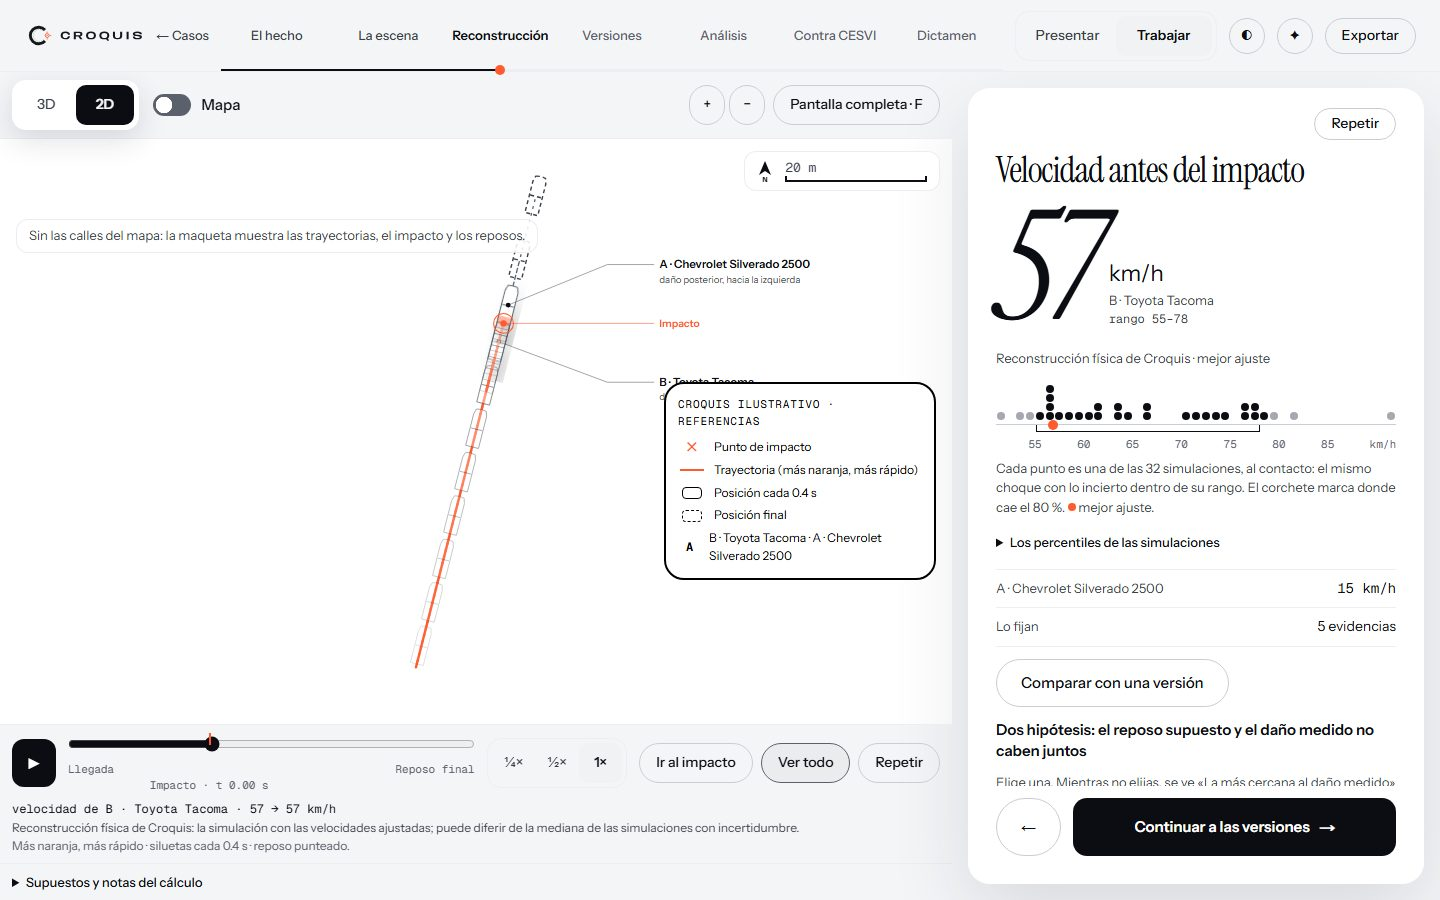
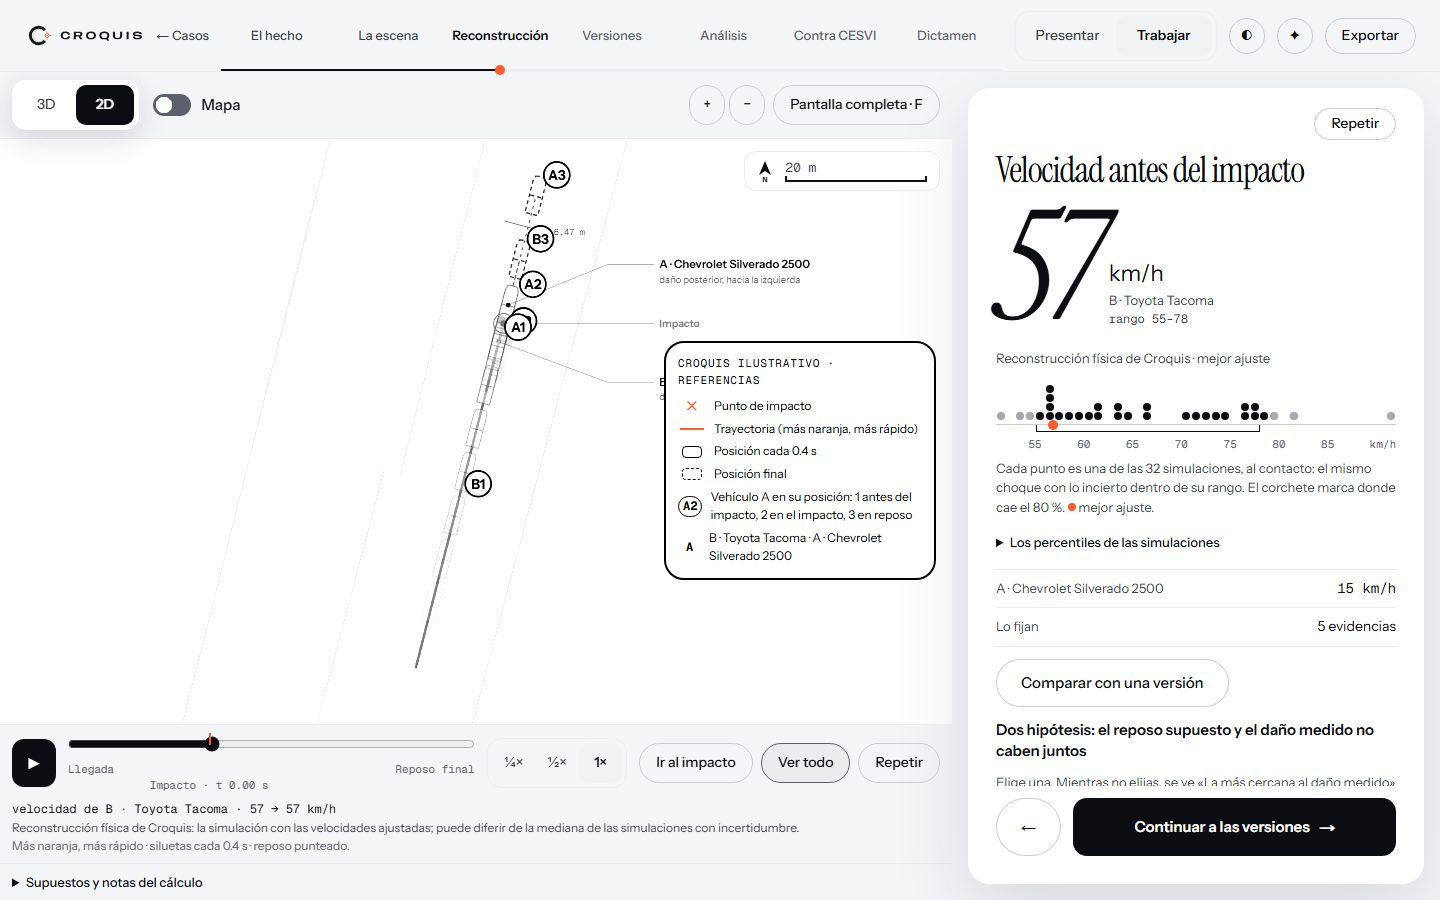
proto(web): the three 2D proposals (map under the sketch, perito paper with lettered positions, satellite photo), the walkthrough reads tile streets from the case map, captures and the proposals doc

diff --git a/apps/web/src/components/cesvi/escena/maqueta.tsx b/apps/web/src/components/cesvi/escena/maqueta.tsx
@@ -270,7 +270,7 @@ export function EscenaMaqueta({
       viewBox={vista ? `${px(vista[0])} ${py(vista[3])} ${vw} ${vh}` : `0 0 ${W} ${H}`}
       preserveAspectRatio="xMidYMid meet"
       overflow="visible"
-      className="h-full w-full"
+      className={`h-full w-full ${papel ? "grayscale contrast-125" : ""}`}
       style={vista ? { touchAction: "none", cursor: arrastrando ? "grabbing" : "grab" } : undefined}
       {...(vista ? manejadores : {})}
       data-vista={vista ? vista.map((x) => F.fijo(x, 1)).join(" ") : undefined}
@@ -821,6 +821,39 @@ export function EscenaMaqueta({
           )}
         </g>
       ) : null}
+      {/* PROTOTIPO (ronda 4, croquis de perito): la letra de cada vehículo con el número de su
+          posición (1 antes, 2 impacto, 3 reposo), en un círculo, como en un croquis impreso. */}
+      {papel && !sinEtiquetas
+        ? resultado.vehiculos.flatMap((v) => {
+            const tr = v.trayectoria;
+            if (!tr.t.length) return [];
+            const letra = (nombres[v.id] ?? v.id).trim().charAt(0).toUpperCase();
+            const r = Math.max(1.3, fuente * 0.75);
+            const marcas: [number, { x: number; y: number }][] = [
+              [1, poseEn(tr, Math.max(tr.t[0]!, ti - 1.5))],
+              [2, poseEn(tr, ti)],
+              [3, poseEn(tr, tr.t[tr.t.length - 1]!)],
+            ];
+            return marcas.map(([k, q], i) => (
+              <g
+                key={`${v.id}-${k}`}
+                transform={`translate(${px(q.x) + (i === 1 ? r * 1.9 : r * 1.6)} ${py(q.y) - r * 1.6})`}
+                data-testid={`marca-papel-${v.id}-${k}`}
+              >
+                <circle r={r} fill="#fff" stroke="#000" strokeWidth={0.25} />
+                <text
+                  textAnchor="middle"
+                  dominantBaseline="central"
+                  fontSize={r * 1.05}
+                  fontWeight={700}
+                  fill="#000"
+                >
+                  {`${letra}${k}`}
+                </text>
+              </g>
+            ));
+          })
+        : null}
     </svg>
   );
   if (!vista) return svg;

diff --git a/apps/web/src/components/cesvi/caso/recorrido-caso.tsx b/apps/web/src/components/cesvi/caso/recorrido-caso.tsx
@@ -38,7 +38,7 @@ import {
   type Pizarra,
   type SalidaCorpus,
 } from "@croquis/cesvi";
-import type { OverpassResponse } from "@croquis/croquis-2d";
+import { overpassDeTeselas, type OverpassResponse } from "@croquis/croquis-2d";
 import { preloadRenderer, type ViewerExportApi } from "@croquis/viewer";
 import type { Map as MapaMl } from "maplibre-gl";
 import { useCallback, useEffect, useMemo, useRef, useState } from "react";
@@ -59,7 +59,7 @@ import {
   versionesParaPresentar,
   type VersionCaso,
 } from "@/lib/versiones-caso";
-import { callesCerca, objetosCerca } from "@/lib/calles-del-mapa";
+import { callesCerca, objetosCerca, RADIO_CALLES_M } from "@/lib/calles-del-mapa";
 import { downloadBytes } from "@/lib/download";
 import {
   CLAVES_PASOS,
@@ -705,6 +705,34 @@ export function RecorridoCaso({
       vivo = false;
     };
   }, [claveCalles]);
+  // Ronda 4: mientras Overpass no llega, las calles de las teselas del mapa del caso (también al
+  // entrar directo a Reconstrucción, sin pasar por La escena).
+  useEffect(() => {
+    if (callesOverpass || callesTeselas || !mapa || !claveCalles) return undefined;
+    const [lon, lat] = claveCalles.split(",").map(Number) as [number, number];
+    const leer = () => {
+      try {
+        const capa = (sourceLayer: string) =>
+          mapa.querySourceFeatures("openmaptiles", { sourceLayer }) as unknown as Parameters<
+            typeof overpassDeTeselas
+          >[0];
+        const r = overpassDeTeselas(
+          capa("transportation"),
+          capa("transportation_name"),
+          [lon, lat],
+          RADIO_CALLES_M,
+        );
+        if (r.elements.some((x) => x.type === "way")) setCallesTeselas(r);
+      } catch {
+        // Sin las teselas todavía: se espera a Overpass.
+      }
+    };
+    mapa.once("idle", leer);
+    mapa.triggerRepaint();
+    return () => {
+      mapa.off("idle", leer);
+    };
+  }, [callesOverpass, callesTeselas, mapa, claveCalles]);
   const rumboDeItem = (i: ItemLugar): number | null => {
     if (i.tipo === "impacto") {
       const primero = vehiculosDe(i.orden)[0];

diff --git a/apps/web/src/components/cesvi/escena/maqueta-caso.tsx b/apps/web/src/components/cesvi/escena/maqueta-caso.tsx
@@ -74,6 +74,14 @@ function CuadroCroquis({
           <span className="h-3 w-5 rounded-sm border border-dashed border-current" />,
           "Posición final",
         )}
+        {variante === 2
+          ? fila(
+              <span className="rounded-full border border-current px-1 font-mono font-bold">
+                A2
+              </span>,
+              "Vehículo A en su posición: 1 antes del impacto, 2 en el impacto, 3 en reposo",
+            )
+          : null}
         {fila(<span className="font-mono font-bold">A</span>, nombres.join(" · ") || "Vehículos")}
       </ul>
       {atribucion ? <span className="text-[0.625rem] opacity-80">{atribucion}</span> : null}

diff --git a/apps/web/e2e/capturas-ronda4-2d.spec.ts b/apps/web/e2e/capturas-ronda4-2d.spec.ts
@@ -32,6 +32,12 @@ async function fotos(page: Page, caso: string) {
     .click({ timeout: 3000 })
     .catch(() => undefined);
   await page.waitForTimeout(3000);
+  // Con fondo (variantes 1 y 3), a que el mapa o la foto ya estén dibujados.
+  if (/croquis=[13]/.test(VARIANTE))
+    await page
+      .getByTestId("maqueta-fondo")
+      .waitFor({ timeout: 40_000 })
+      .catch(() => undefined);
   await foto("1-2d");
   const mapa = page.getByTestId("vista-mapa");
   if ((await mapa.getAttribute("aria-checked")) !== "true") await mapa.click();

diff --git a/docs/PROGRESS.md b/docs/PROGRESS.md
@@ -2663,7 +2663,7 @@ Ordenado por impacto (lo que cierra una fase de PLAN-CESVI primero). Lo resuelto
 
 | Qué                                                                                                                                                                                                                                                                                                                                                                                                                                                                                                                                                     | Para qué                                                                                                                                                                                                                                                                              | Estado                                                                                                                                                                                                                                                                       |
 | ------------------------------------------------------------------------------------------------------------------------------------------------------------------------------------------------------------------------------------------------------------------------------------------------------------------------------------------------------------------------------------------------------------------------------------------------------------------------------------------------------------------------------------------------------- | ------------------------------------------------------------------------------------------------------------------------------------------------------------------------------------------------------------------------------------------------------------------------------------- | ---------------------------------------------------------------------------------------------------------------------------------------------------------------------------------------------------------------------------------------------------------------------------- |
-| **La Escena, ronda 4 (René, 2026-11-18):** elegir una de las tres propuestas de la primera experiencia (`docs/cesvi/ronda-4/propuestas-escena.md`) y una persona que no haya usado Croquis para medir el tiempo hasta dejar la escena lista, antes y después                                                                                                                                                                                                                                                                                            | Sin la elección no se construye la versión final; sin la persona no hay medición (E9)                                                                                                                                                                                                 | Pedido a René el 2026-11-18. El prototipo está en la rama `feat/u-ronda4-mapa-real` (`?propuesta=1                                                                                                                                                                           | 2   | 3`) |
+| **La Escena, ronda 4 (René, 2026-11-18):** elegir una de las tres propuestas de la primera experiencia (`docs/cesvi/ronda-4/propuestas-escena.md`) y una de las tres del 2D de Reconstrucción (`docs/cesvi/ronda-4/propuestas-2d.md`) y una persona que no haya usado Croquis para medir el tiempo hasta dejar la escena lista, antes y después                                                                                                                                                                                                         | Sin la elección no se construye la versión final; sin la persona no hay medición (E9)                                                                                                                                                                                                 | Pedido a René el 2026-11-18. El prototipo está en la rama `feat/u-ronda4-mapa-real` (`?propuesta=1                                                                                                                                                                           | 2   | 3`) |
 | **Build de Unity 1.3.0 (ronda 4: mapa real y fantasma; ADR 0123 y 0124):** el código está en la rama `feat/u-ronda4-mapa-real` y las pruebas de Core pasan. Falta compilarlo. En la laptop tarda más de 10 min y René pidió hacerlo en el paquete del colaborador, que hoy no compila Unity, solo copia el release.                                                                                                                                                                                                                                     | Confirmar que la computadora del colaborador tiene Unity 6000.3.28f1 con licencia, o autorizar el build en la laptop. Con eso agrego la tanda que compila, mide y prepara la publicación.                                                                                             | Pedido a René el 2026-11-18 (ronda 4)                                                                                                                                                                                                                                        |
 | **Precarga del 3D:** decidir si el build de Unity se sigue bajando en cuanto alguien abre un caso, o solo al llegar a «Reconstrucción»                                                                                                                                                                                                                                                                                                                                                                                                                  | Es el mayor gasto de Blob: unas 94 primeras visitas en dos días (`eval/results/blob_gasto_estimado.json`). Bajarlo después ahorra transferencia, pero el primer 3D tarda más                                                                                                          | Propuesto el 2026-11-17 (ADR 0120). No se cambió: afecta lo que siente el perito                                                                                                                                                                                             |
 | **Tráiler:** el colaborador corre la tanda 4 (`CORRER-TANDA-EN-RTX.bat`, tras `git pull`) y manda `croquis-tomas-trailer.zip`                                                                                                                                                                                                                                                                                                                                                                                                                           | Las tomas reales del 3D a 3840×2160: sin ellas el tráiler solo existe como previo                                                                                                                                                                                                     | Pedido el 2026-11-16. Al llegar: descomprimir en `trailer-salida/tomas/` y renderizar los tres formatos sin `--previo`                                                                                                                                                       |

diff --git a/docs/cesvi/ronda-4/propuestas-2d.md b/docs/cesvi/ronda-4/propuestas-2d.md
@@ -1,0 +1,78 @@
+# Ronda 4 · El 2D de Reconstrucción como el croquis de un perito: tres propuestas
+
+René, 2026-11-18, con el caso cesvi-cf708e9fed: «El 2D de Reconstrucción no se entiende». Señaló:
+
+- X1 y X2 encimadas sin decir qué son;
+- el vehículo como un rectángulo azul atravesado en la calle;
+- círculos con «1» y un icono de inicio sin explicación;
+- un mapa de fondo deslavado.
+
+Pidió que se lea como el croquis de un perito: bordes de la vía y carriles; siluetas con su letra y su nombre; trayectorias; punto de impacto; posiciones finales; escala y norte; una leyenda corta. El mapa o la foto satelital, de fondo opcional y tenue.
+
+**No se construye la versión final hasta que René elija.** Ningún número cambia: solo cambia cómo se dibuja.
+
+Las capturas salen de un prototipo sobre la maqueta real, con `?croquis=1|2|3`. Sin el parámetro, nada cambia. El caso cf708 se armó con lo que propone Croquis: el choque al centro, la flecha propuesta y «quedó junto al choque».
+
+## 1 · Cómo es hoy
+
+- **Con «Mapa» encendido** (lo que vio René), el 2D es otra vista: el mapa de la calle con marcadores (un rectángulo azul, círculos «1»), sin leyenda.
+- **Sin el mapa**, es la maqueta: siluetas, trayectorias y etiquetas.
+  - En cf708 no tenía calles («Sin las calles del mapa…»): Overpass tardaba unos 35 s. Ya está arreglado con las calles de las teselas del mapa.
+
+![cf708 con «Mapa»](evidencia/2d/antes-cf708-2-2d-con-mapa.jpg)
+![cf708 sin mapa](evidencia/2d/antes-cf708-1-2d.jpg)
+![AXA](evidencia/2d/antes-axa-1-2d.jpg)
+
+## 2 · Las tres propuestas
+
+Las tres dejan una sola vista, la maqueta, y quitan la vista con marcadores: «Mapa» solo pone el lugar debajo, tenue.
+
+### Propuesta 1 · El croquis de siempre, con el lugar tenue al fondo
+
+La maqueta con el mapa de OpenStreetMap al 32 % debajo y una leyenda corta. Los símbolos son el punto de impacto, la trayectoria, la posición cada 0.4 s, la posición final y las letras de los vehículos.
+
+![Propuesta 1, cf708](evidencia/2d/propuesta-1-cf708-1-2d.jpg)
+![Propuesta 1, AXA](evidencia/2d/propuesta-1-axa-1-2d.jpg)
+
+- **A favor:** se reconoce el lugar sin perder el croquis. Es la que menos cambia.
+- **En contra:** sigue siendo un dibujo «de pantalla», en color, no el de un dictamen impreso.
+
+### Propuesta 2 · Croquis pericial, en papel
+
+Papel blanco, en grises. Cada vehículo lleva su letra con el número de la posición en un círculo: A1 antes del impacto, A2 en el impacto, A3 en reposo. Así se rotula un croquis pericial. Un cuadro de referencias explica cada símbolo.
+
+![Propuesta 2, cf708](evidencia/2d/propuesta-2-cf708-1-2d.jpg)
+![Propuesta 2, AXA](evidencia/2d/propuesta-2-axa-1-2d.jpg)
+
+- **A favor:** se lee como los croquis de los reportes de CESVI y sirve igual en el dictamen impreso.
+- **En contra:**
+  - Pierde el color de la velocidad.
+  - Los bordes de la vía salen demasiado claros en gris: en la versión final irían en negro.
+  - Con varios vehículos juntos, los círculos se acercan.
+
+### Propuesta 3 · El croquis sobre la foto satelital
+
+La maqueta sobre la foto de Esri al 55 %, con su crédito, cuando hay internet. Sin internet, el mapa.
+
+![Propuesta 3, cf708](evidencia/2d/propuesta-3-cf708-1-2d.jpg)
+![Propuesta 3, AXA](evidencia/2d/propuesta-3-axa-1-2d.jpg)
+
+- **A favor:** es lo que más se parece al lugar real (camellones, acotamientos, entradas).
+- **En contra:**
+  - La foto puede quedar corrida de 5 a 8.5 m. En AXA se nota: la vía dibujada y la de la foto no coinciden. Haría falta el mismo ajuste que en el 3D.
+  - Trae los coches de ese día.
+
+## 3 · Mi recomendación
+
+**La 2, con la 1 como fondo opcional.** Croquis pericial en papel por omisión, que es lo que se lee como un perito y lo que va al dictamen. «Mapa» pone el lugar tenue debajo, y «Foto» la foto satelital, con su ajuste.
+
+En la versión final, además:
+
+- bordes de la vía y carriles en negro;
+- un solo «Impacto» rotulado aunque haya varios (X1, X2 con su número en la leyenda);
+- el cuadro de referencias con la escala y el norte dentro.
+
+## 4 · Lo que René decide
+
+1. **Cuál propuesta:** 1, 2, 3 o una mezcla.
+2. **Si el 2D del dictamen debe ser el mismo** que el de la pantalla.

diff --git a/docs/progress/W.md b/docs/progress/W.md
@@ -17,15 +17,7 @@ Plan: `docs/cesvi/PLAN-CESVI.md` §3.4. Reglas: `CLAUDE.md`. ADR del bloque 0130
   - El recorrido (maqueta y 3D) también las usa.
 - **La escena ya armada:** hecho (`proponerEscena`, con pruebas sobre el expediente real del caso).
 - **Tres propuestas de la primera experiencia:** `docs/cesvi/ronda-4/propuestas-escena.md`, con capturas. Esperan la elección de René (anotado en «Bloqueado»).
-- **El 2D de Reconstrucción como croquis de perito: a medias.**
-  - Antes: `docs/cesvi/ronda-4/evidencia/2d/antes-*.jpg`.
-  - Prototipo `?croquis=1|2|3`: el fondo tenue (mapa o foto) y una leyenda. Todavía no sirve para elegir:
-    - la 2 no se distingue de la 1;
-    - en AXA no aparecen las calles ni la foto, porque al entrar directo a Reconstrucción no se monta el mapa de La escena.
-  - **Siguiente paso:**
-    1. Leer las teselas también desde el mapa del recorrido.
-    2. Hacer la 2 de verdad: papel blanco, contornos negros, la letra en círculo en cada posición (inicio, impacto, reposo), bordes y carriles marcados, y el cuadro de referencias con escala y norte.
-    3. Sacar las capturas de AXA y cf708 y escribir `docs/cesvi/ronda-4/propuestas-2d.md`.
+- **El 2D de Reconstrucción como croquis de perito:** tres propuestas con capturas en `docs/cesvi/ronda-4/propuestas-2d.md` (prototipo `?croquis=1|2|3`). Esperan la elección de René.
 - **Pendiente de René:**
   - rotar al colocar (anillo, teclado, «Alinear con la calle», «Voltear 180°», alinear solo); se construye con la propuesta de La escena que elija;
   - la medición con una persona nueva.
